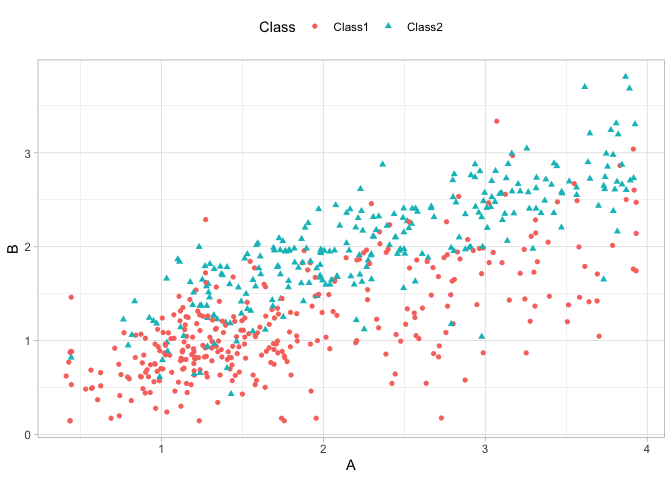
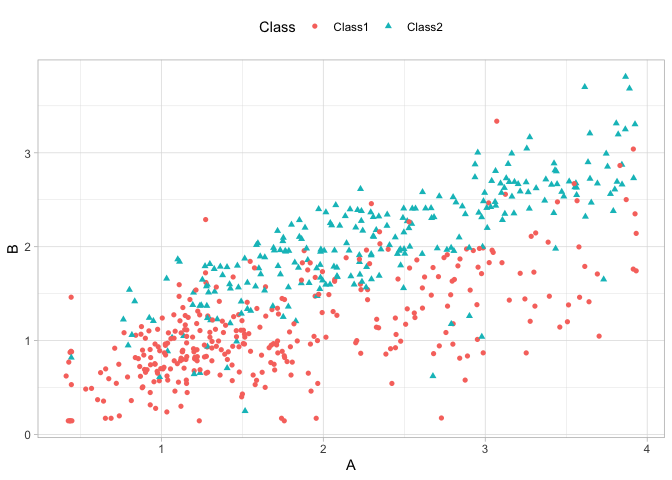
fixing math equations

diff --git a/tmwr/chapter12_tuning.md b/tmwr/chapter12_tuning.md
@@ -36,7 +36,7 @@ with two predictors, two classes, and a training set of 593 data points.
     ## ✖ dplyr::filter()  masks stats::filter()
     ## ✖ dplyr::lag()     masks stats::lag()
     ## ✖ recipes::step()  masks stats::step()
-    ## • Search for functions across packages at https://www.tidymodels.org/find/
+    ## • Use tidymodels_prefer() to resolve common conflicts.
 
     tidymodels_prefer()
 
@@ -51,16 +51,16 @@ with two predictors, two classes, and a training set of 593 data points.
     ## # A tibble: 593 × 3
     ##        A     B Class 
     ##    <dbl> <dbl> <fct> 
-    ##  1 1.01  0.699 Class1
-    ##  2 3.92  2.73  Class2
-    ##  3 1.13  0.799 Class1
-    ##  4 1.34  0.940 Class1
-    ##  5 3.82  2.16  Class2
-    ##  6 1.18  1.62  Class2
-    ##  7 2.24  1.63  Class2
-    ##  8 1.61  1.71  Class2
-    ##  9 0.606 0.371 Class1
-    ## 10 3.64  1.41  Class1
+    ##  1 1.85  2.28  Class2
+    ##  2 3.43  2.81  Class2
+    ##  3 2.30  1.65  Class2
+    ##  4 1.20  1.51  Class2
+    ##  5 0.656 0.699 Class1
+    ##  6 1.12  0.813 Class1
+    ##  7 3.91  3.04  Class1
+    ##  8 1.31  0.785 Class1
+    ##  9 3.02  2.47  Class1
+    ## 10 0.961 0.964 Class1
     ## # ℹ 583 more rows
 
     training_set |> 
@@ -93,9 +93,9 @@ set (using `broom::glance()`):
     ## # A tibble: 3 × 2
     ##   logLik link     
     ##    <dbl> <chr>    
-    ## 1  -265. logit    
-    ## 2  -268. probit   
-    ## 3  -279. c-log-log
+    ## 1  -243. logit    
+    ## 2  -248. probit   
+    ## 3  -258. c-log-log
 
 According to these results, the logistic model has the best statistical
 properties.
@@ -135,17 +135,21 @@ log-likelihood
         .groups = "drop"
       )
 
+    ## → A | warning: glm.fit: fitted probabilities numerically 0 or 1 occurred
+
+    ## There were issues with some computations   A: x1There were issues with some computations   A: x2There were issues with some computations   A: x3There were issues with some computations   A: x4There were issues with some computations   A: x5There were issues with some computations   A: x6There were issues with some computations   A: x7There were issues with some computations   A: x8There were issues with some computations   A: x8
+
     resampled_res
 
     ## # A tibble: 6 × 4
     ##   model     .metric       mean std_err
     ##   <chr>     <chr>        <dbl>   <dbl>
-    ## 1 c-log-log mn_log_loss -0.483 0.00905
-    ## 2 c-log-log roc_auc      0.875 0.00421
-    ## 3 logistic  mn_log_loss -0.452 0.00705
-    ## 4 logistic  roc_auc      0.875 0.00423
-    ## 5 probit    mn_log_loss -0.458 0.00706
-    ## 6 probit    roc_auc      0.875 0.00421
+    ## 1 c-log-log mn_log_loss -0.454 0.0122 
+    ## 2 c-log-log roc_auc      0.894 0.00452
+    ## 3 logistic  mn_log_loss -0.416 0.00855
+    ## 4 logistic  roc_auc      0.893 0.00453
+    ## 5 probit    mn_log_loss -0.426 0.00870
+    ## 6 probit    roc_auc      0.893 0.00452
 
     resampled_res |> 
       filter(.metric=="mn_log_loss") |> 
@@ -210,9 +214,9 @@ any of these options could be used.
     ## # A tibble: 3 × 4
     ##   wflow_id      intercept      a     b
     ##   <chr>             <dbl>  <dbl> <dbl>
-    ## 1 model_logit       -3.48 -1.34   3.75
-    ## 2 model_probit      -1.98 -0.719  2.07
-    ## 3 model_cloglog     -2.47 -0.745  2.10
+    ## 1 model_logit       -4.04 -1.27   3.98
+    ## 2 model_probit      -2.24 -0.630  2.11
+    ## 3 model_cloglog     -2.78 -0.710  2.22
 
     training_set |> 
       ggplot(aes(x=A, y=B, color=Class, shape=Class)) +
@@ -224,12 +228,15 @@ any of these options could be used.
 
 ![](chapter12_tuning_files/figure-markdown_strict/unnamed-chunk-5-1.png)
 
-Remembering Sigmoid Function
-
-*h*<sub>*θ*</sub> = *g*(*z*)
-*z* = *θ*<sub>0</sub> + *θ*<sub>1</sub>*x*<sub>1</sub> + *θ*<sub>2</sub>*x*<sub>2</sub>
-*θ*<sub>0</sub> + *θ*<sub>1</sub>*x*<sub>1</sub> + *θ*<sub>2</sub>*x*<sub>2</sub> ≥ 0
-*x*<sub>2</sub> ≥ −*θ*<sub>0</sub>/*θ*<sub>2</sub> + −*θ*<sub>1</sub>/*θ*<sub>2</sub>*x*<sub>1</sub>
+> Remembering Sigmoid Function
+>
+> *h*<sub>*θ*</sub> = *g*(*z*)
+>
+> *z* = *θ*<sub>0</sub> + *θ*<sub>1</sub>*x*<sub>1</sub> + *θ*<sub>2</sub>*x*<sub>2</sub>
+>
+> *θ*<sub>0</sub> + *θ*<sub>1</sub>*x*<sub>1</sub> + *θ*<sub>2</sub>*x*<sub>2</sub> ≥ 0
+>
+> *x*<sub>2</sub> ≥ −*θ*<sub>0</sub>/*θ*<sub>2</sub> + −*θ*<sub>1</sub>/*θ*<sub>2</sub>*x*<sub>1</sub>
 
 # Reference
 
